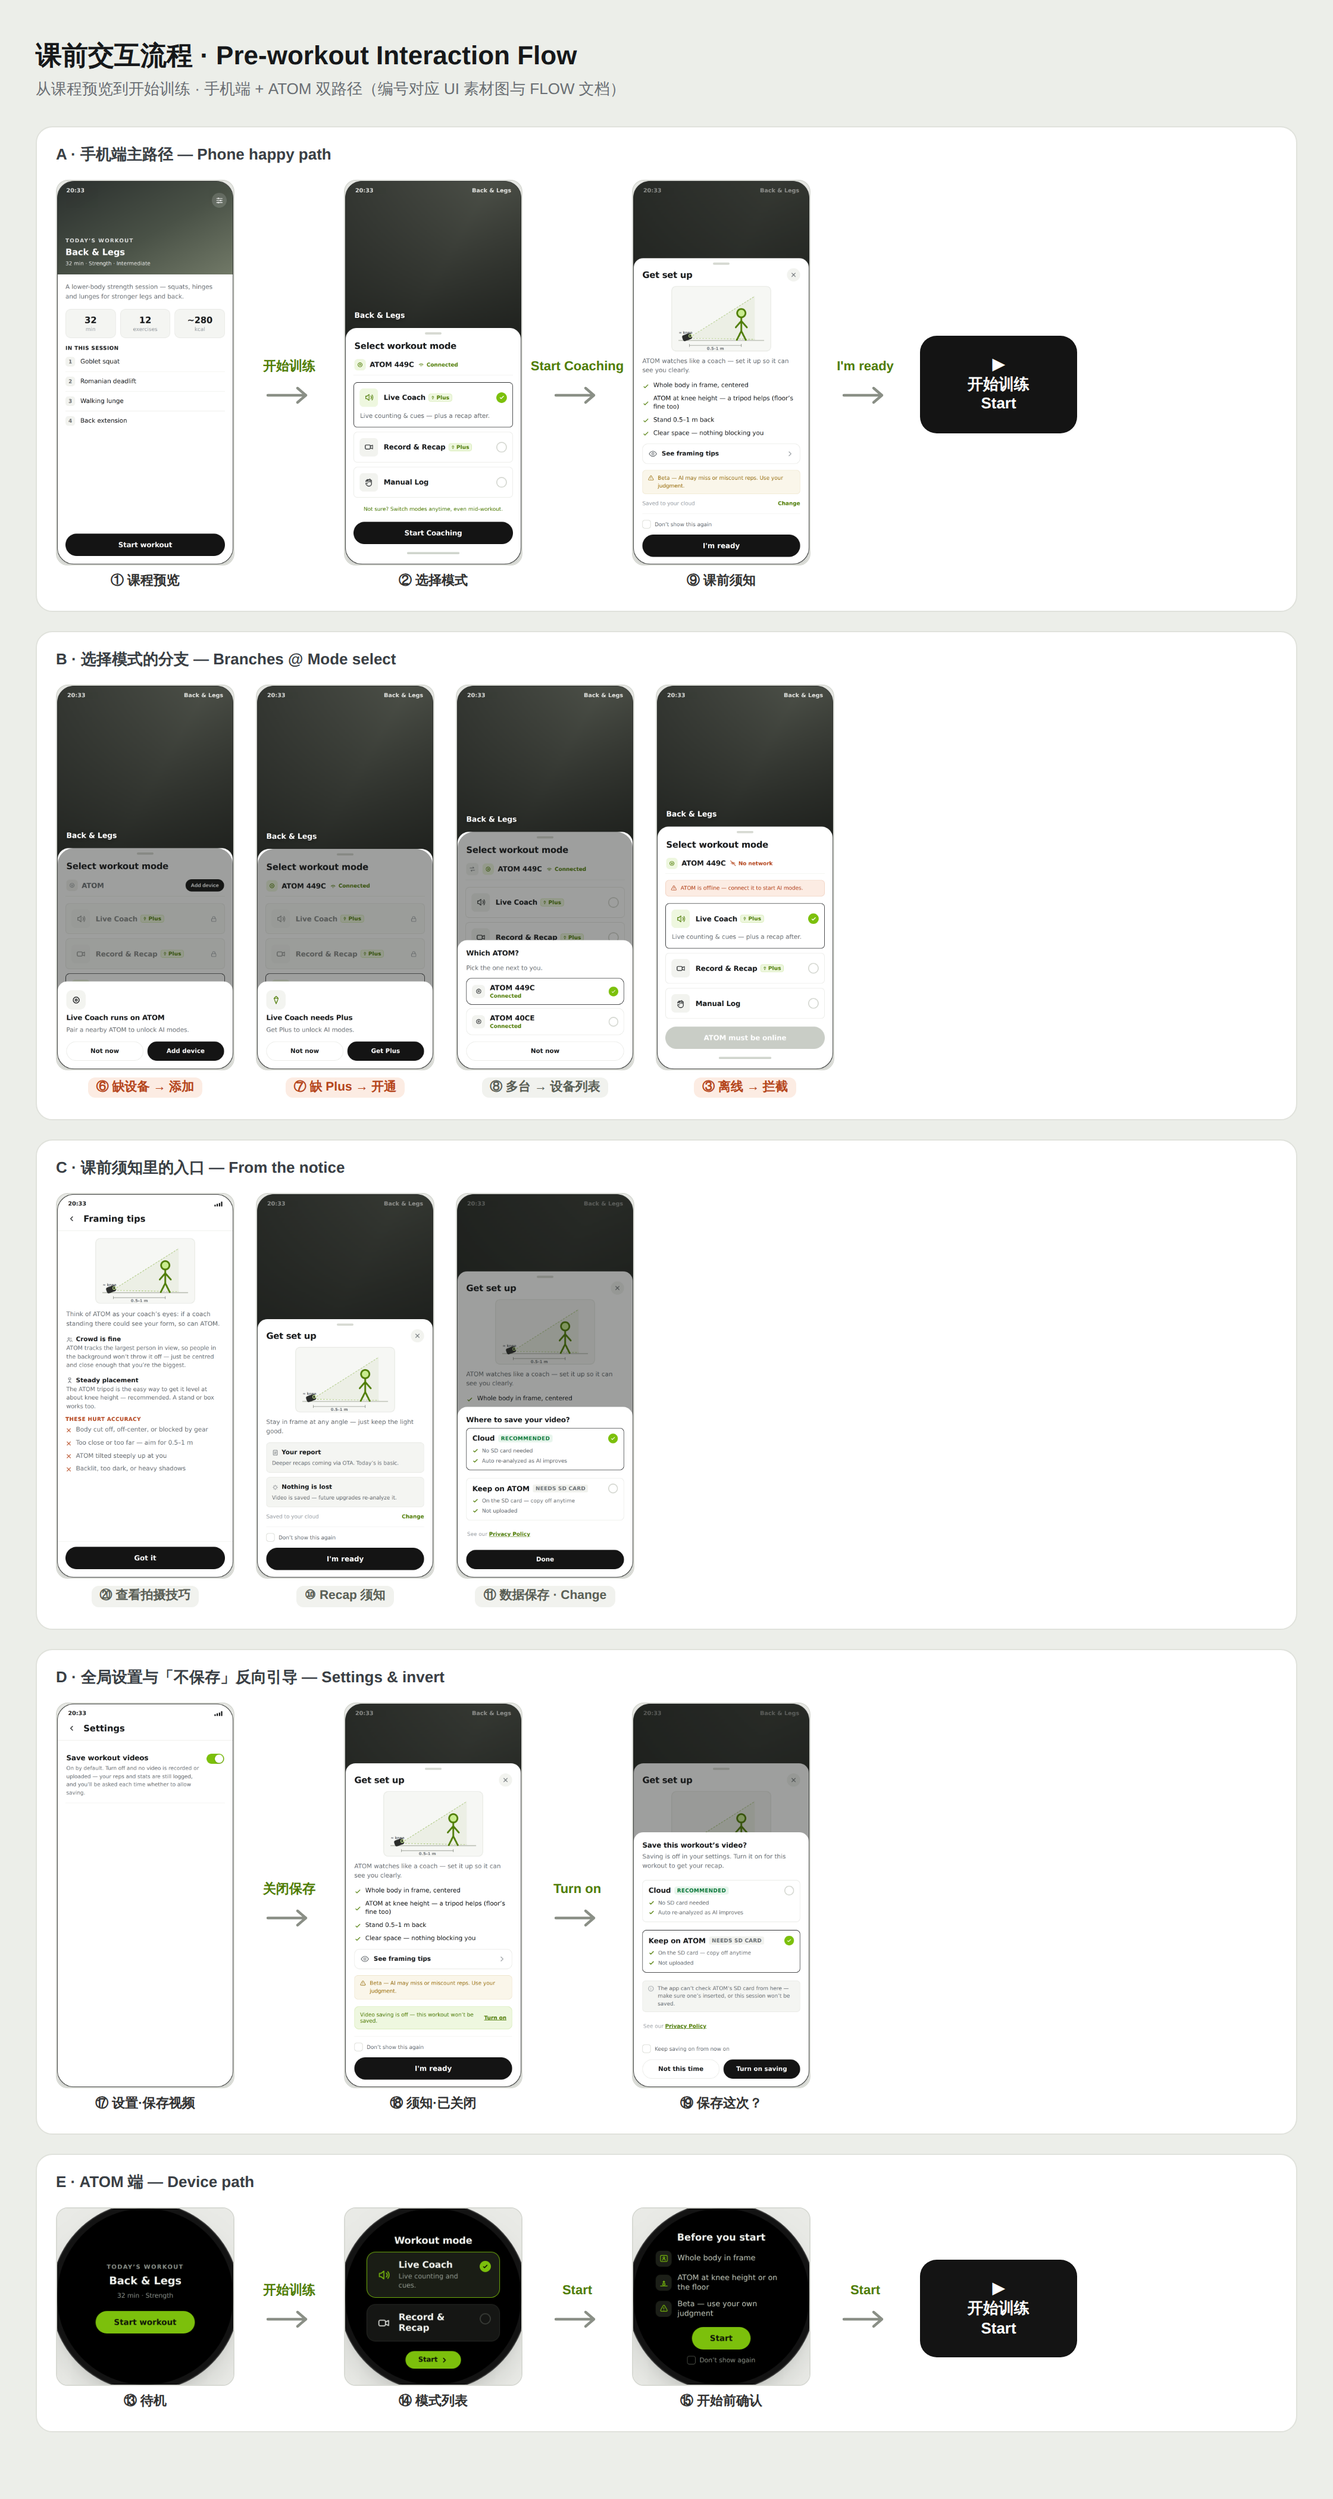
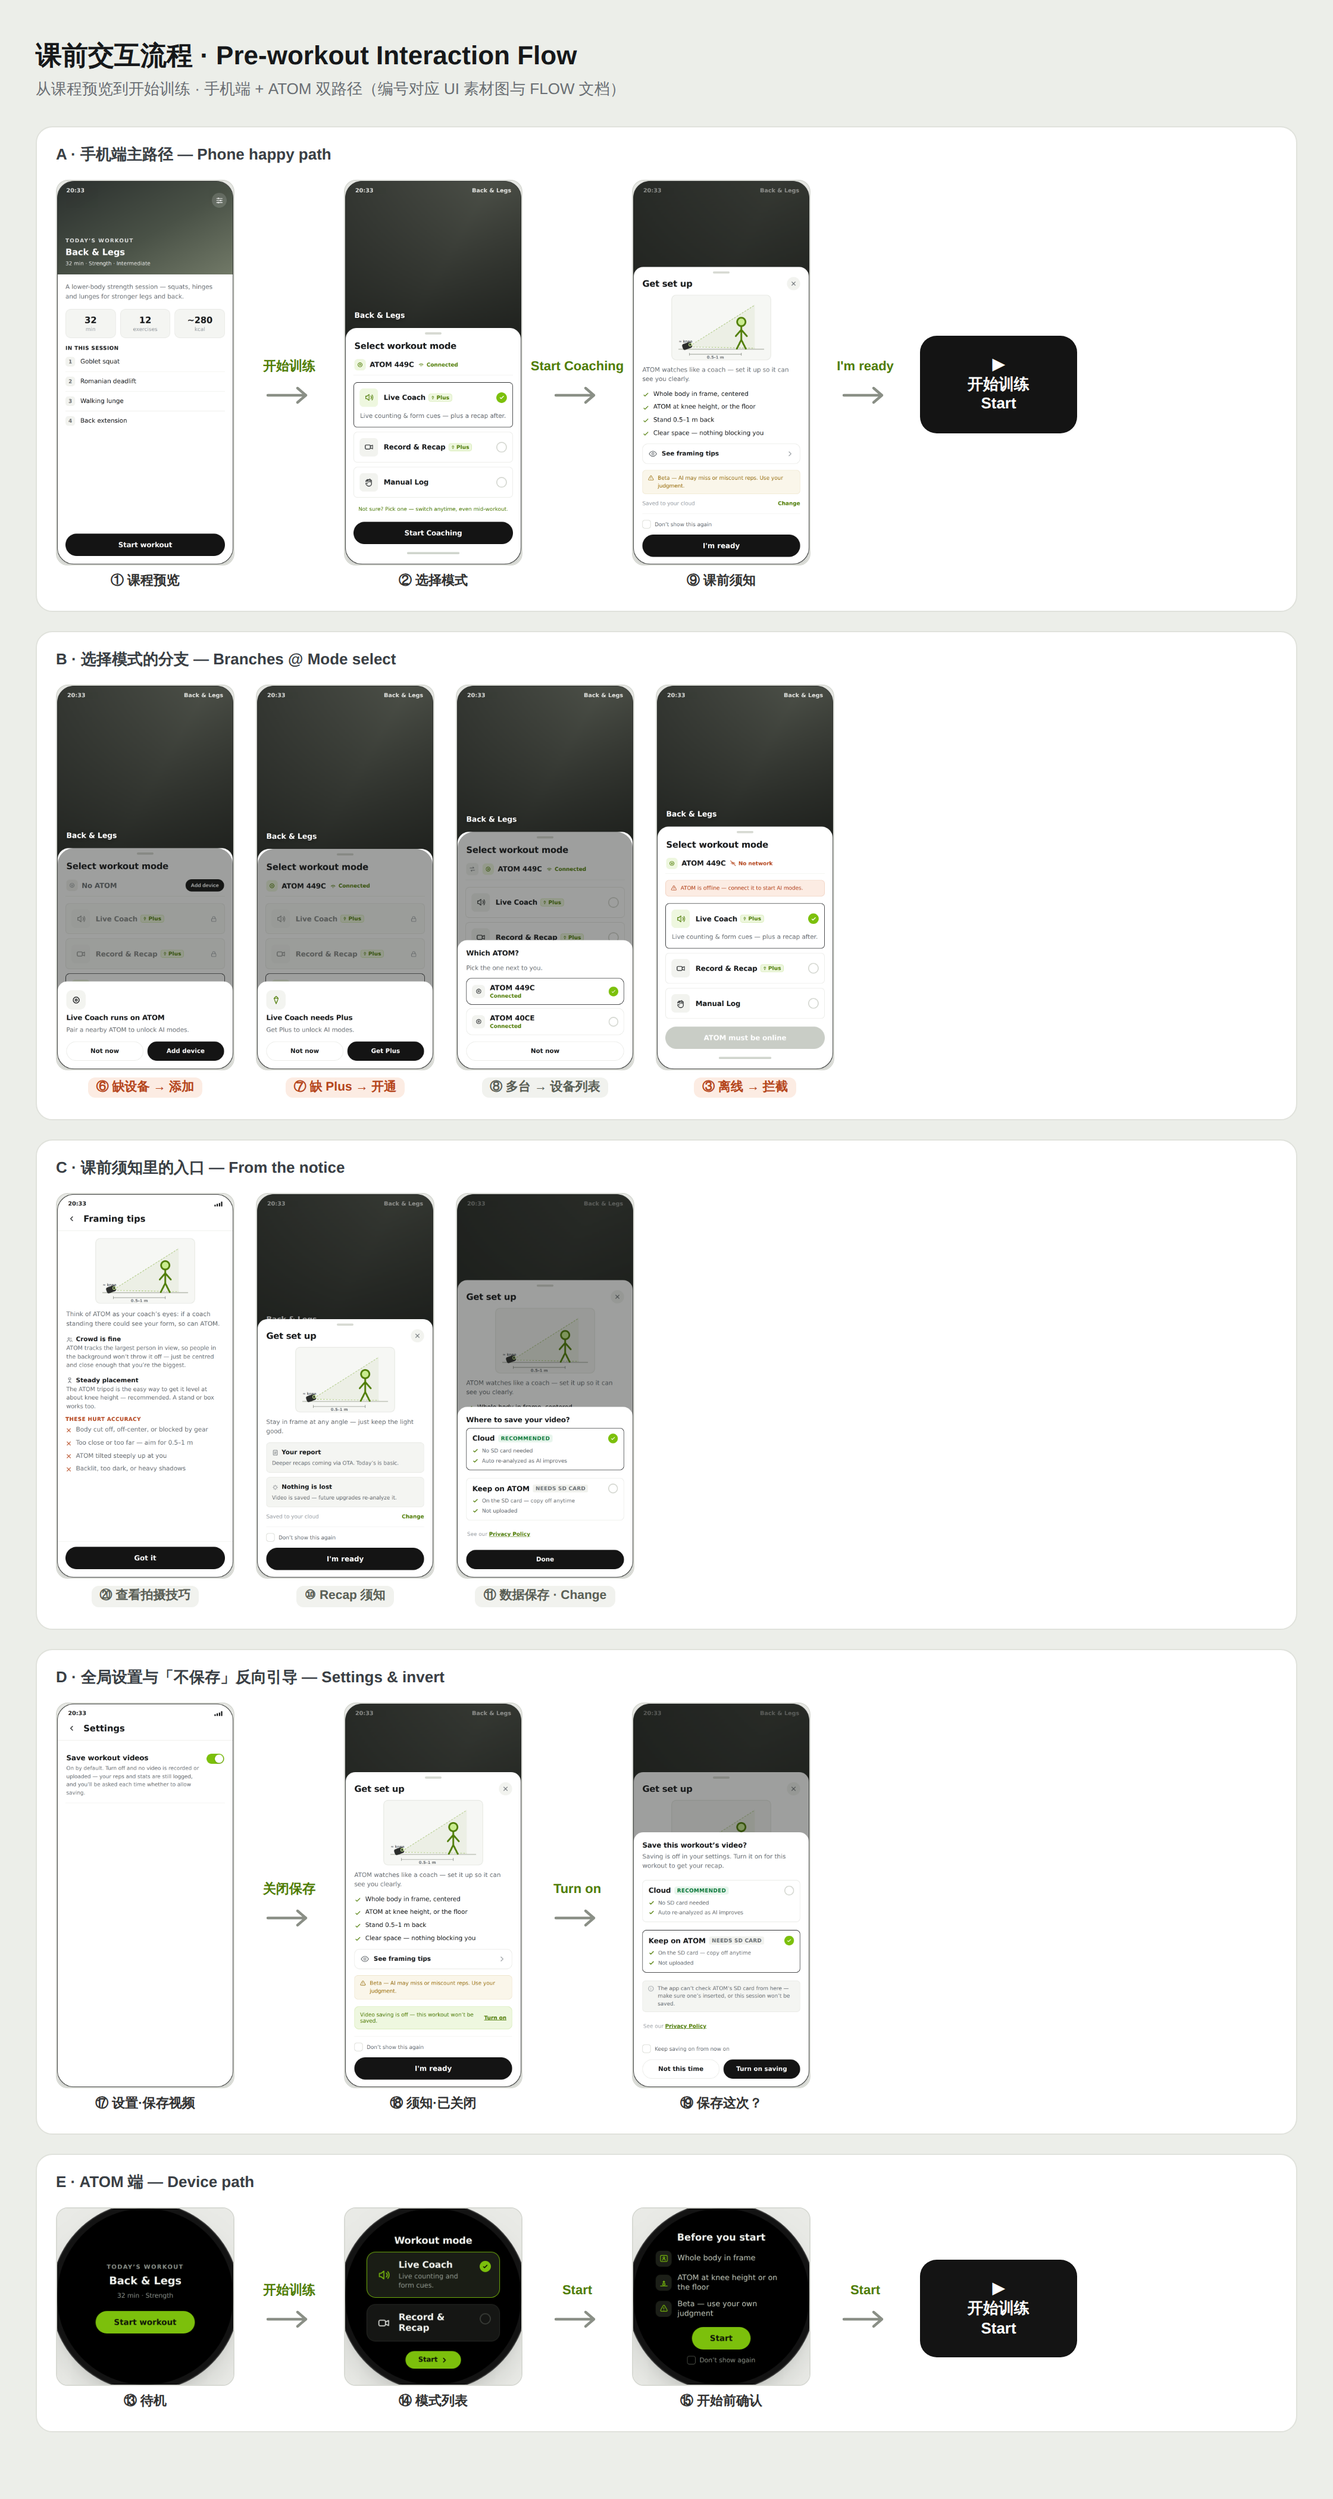
copy polish (3 tweaks) + regenerate static mockups
Applied the three approved clarity tweaks across prototype / Flutter / PRD:
1. No-device label 'ATOM' → 'No ATOM' / 未连接 ATOM (was mis-readable as a
   device named ATOM).
2. Quota-exhausted body split into two clean sentences.
3. flexNote EN/ZH aligned (both: pick one + switch anytime, even mid-workout).

Regenerated the full static set (手机端 en/zh, UI-spec board, flow-board) so
the PNGs match the current copy — folds in this session's accumulated changes
(form cues, shortened coachDo item 2, Upgrade to Pro, these three).

Claude-Session: https://claude.ai/code/session_014PR3u6XwyoxidkFV3YCNB7

diff --git a/Demo UX 交互原型.html b/Demo UX 交互原型.html
@@ -623,13 +623,13 @@
   };
   var T={
     en:{ bestLabel:'Best for', beta:'Beta — AI may miss or miscount reps. Use your judgment.',
-      connected:'Connected', nonet:'No network', add:'Add device',
+      connected:'Connected', nonet:'No network', add:'Add device', noDevice:'No ATOM',
       warnNonet:'ATOM is offline — connect it to start AI modes.',
       switchHint:' Or switch to an online device.',
       ctaBlocked:'ATOM must be online', cancel:'Not now',
       popDevT:'{n} runs on ATOM', popDevS:'Pair a nearby ATOM to unlock AI modes.', popDevBtn:'Add device',
       popPlusT:'{n} needs Plus', popPlusS:'Get Plus to unlock AI modes.', popPlusBtn:'Get Plus',
-      popQuotaT:'{n} — AI limit reached', popQuotaS:'You’ve used up this cycle’s Plus AI sessions — upgrade to Pro for more. Manual Log still works.', popQuotaBtn:'Upgrade to Pro',
+      popQuotaT:'{n} — AI limit reached', popQuotaS:'This cycle’s Plus AI sessions are used up. Upgrade to Pro for more — Manual Log still works.', popQuotaBtn:'Upgrade to Pro',
       recapNeedH:'Saving required', recapNeed:'Record & Recap keeps the video to build your recap — turn on saving to start.',
       recapTurnOnCta:'Turn on saving to continue', dEnableCta:'Turn on saving', dSaveAlways:'Keep saving on from now on',
       dataSheetT:'Where to save your video?',
@@ -676,17 +676,17 @@
       pvDesc:'A lower-body strength session — squats, hinges and lunges for stronger legs and back.',
       pvStart:'Start workout', pvStatMin:'min', pvStatEx:'exercises', pvStatKcal:'kcal',
       pvInc:'In this session', pvEx1:'Goblet squat', pvEx2:'Romanian deadlift', pvEx3:'Walking lunge', pvEx4:'Back extension',
-      flexNote:'Not sure? Switch modes anytime, even mid-workout.',
+      flexNote:'Not sure? Pick one — switch anytime, even mid-workout.',
       rstart:'Start', atomCoachSub:'Live counting and form cues.', atomRecapSub:'Records quietly, reports after.',
       devcap:'Title is just “Workout mode”. Selected card shows its one-line explanation; the others show only their title. Manual Log stays on the phone.' },
     zh:{ bestLabel:'适合', beta:'Beta——AI 可能漏计或误计，请自行判断。',
-      connected:'已连接', nonet:'无网络', add:'添加设备',
+      connected:'已连接', nonet:'无网络', add:'添加设备', noDevice:'未连接 ATOM',
       warnNonet:'ATOM 未联网，连网后才能启动 AI 模式。',
       switchHint:' 也可切换到在线的设备。',
       ctaBlocked:'ATOM 需在线', cancel:'以后再说',
       popDevT:'{n} 需要 ATOM', popDevS:'连接身边的 ATOM，解锁 AI 模式。', popDevBtn:'添加设备',
       popPlusT:'{n} 需要 Plus 会员', popPlusS:'开通 Plus，解锁 AI 模式。', popPlusBtn:'开通 Plus',
-      popQuotaT:'{n}：AI 额度已用尽', popQuotaS:'本期 Plus 的 AI 次数已用完——升级 Pro 可获得更多。手动记录仍可使用。', popQuotaBtn:'升级 Pro',
+      popQuotaT:'{n}：AI 额度已用尽', popQuotaS:'本期 Plus 的 AI 次数已用完。升级 Pro 可获得更多——手动记录仍可用。', popQuotaBtn:'升级 Pro',
       recapNeedH:'需开启保存', recapNeed:'录制复盘要保存视频才能生成复盘——开启保存即可开始。',
       recapTurnOnCta:'开启保存以继续', dEnableCta:'开启保存', dSaveAlways:'以后一直开启保存（可在设置关闭）',
       dataSheetT:'视频保存在哪里？',
@@ -733,7 +733,7 @@
       pvDesc:'下肢力量训练——深蹲、髋铰链与弓步，练强腿部和背部。',
       pvStart:'开始训练', pvStatMin:'分钟', pvStatEx:'个动作', pvStatKcal:'千卡',
       pvInc:'本节包含', pvEx1:'高脚杯深蹲', pvEx2:'罗马尼亚硬拉', pvEx3:'行走弓步', pvEx4:'背部伸展',
-      flexNote:'不确定？课中随时能切换，先选一个。',
+      flexNote:'不确定？先选一个——课中随时能切换。',
       rstart:'开始', atomCoachSub:'实时计数、动作提示。', atomRecapSub:'安静录制，练后出报告。',
       devcap:'标题就是「上课模式」。选中的卡片显示一行说明，其余只显示标题。手动记录留在手机端。' }
   };
@@ -1004,7 +1004,7 @@
     dev.classList.toggle('off', DEVCOUNT==='nodev');
     dev.classList.toggle('multi', DEVCOUNT==='two');
     devAdd.hidden = DEVCOUNT!=='nodev'; devAdd.textContent=t.add;
-    if(DEVCOUNT==='nodev'){ devName.textContent='ATOM'; devState.style.display='none'; }
+    if(DEVCOUNT==='nodev'){ devName.textContent=t.noDevice; devState.style.display='none'; }
     else { var a=active(); devName.textContent=a.name; devState.style.display='';
       devState.classList.toggle('warn', a.status!=='conn');
       devState.innerHTML=(a.status==='conn'?WIFI:NONETIC)+'<span>'+(a.status==='conn'?t.connected:t.nonet)+'</span>'; }

diff --git a/Code Flutter/lib/workout_mode/strings.dart b/Code Flutter/lib/workout_mode/strings.dart
@@ -15,14 +15,14 @@ class L {
   // ---- mode sheet chrome ----
   String get title => _t('Select workout mode', '选择上课模式');
   String get flexNote => _t(
-      'Not sure? Switch modes anytime, even mid-workout.',
-      '不确定？课中随时能切换，先选一个。');
+      'Not sure? Pick one — switch anytime, even mid-workout.',
+      '不确定？先选一个——课中随时能切换。');
   String get plusTag => 'Plus';
 
   // ---- device row ----
   String get connected => _t('Connected', '已连接');
   String get noNetwork => _t('No network', '无网络');
-  String get noDevice => _t('ATOM', 'ATOM');
+  String get noDevice => _t('No ATOM', '未连接 ATOM');
   String get addDevice => _t('Add device', '添加设备');
 
   // ---- blocking warning + CTA ----
@@ -42,8 +42,8 @@ class L {
           _t('Pair a nearby ATOM to unlock AI modes.', '连接身边的 ATOM，解锁 AI 模式。'),
         GateReason.needPlus => _t('Get Plus to unlock AI modes.', '开通 Plus，解锁 AI 模式。'),
         GateReason.overQuota => _t(
-            'You’ve used up this cycle’s Plus AI sessions — upgrade to Pro for more. Manual Log still works.',
-            '本期 Plus 的 AI 次数已用完——升级 Pro 可获得更多。手动记录仍可使用。'),
+            'This cycle’s Plus AI sessions are used up. Upgrade to Pro for more — Manual Log still works.',
+            '本期 Plus 的 AI 次数已用完。升级 Pro 可获得更多——手动记录仍可用。'),
       };
   String gateButton(GateReason r) => switch (r) {
         GateReason.needDevice => addDevice,

diff --git a/PRD 课前模式选择.md b/PRD 课前模式选择.md
@@ -82,7 +82,7 @@
 
 **结构决策**：保留**具名 3 选 1**（而非"AI + 能力开关"的排列组合式）。理由——课前是"营销/第一印象"时刻，具名卡片**决策与理解成本最低**，Record & Recap 也能独立曝光；开关式更灵活但偏"高阶用户配置"，理解成本更高。3 选 1 唯一的短板"像选了改不了"，用**一句心智提示**补齐：
 
-> 「**不确定？课中随时能切换，先选一个。**」
+> 「**不确定？先选一个——课中随时能切换。**」
 
 **位置与样式**：放在**三张卡片下方、主按钮上方**；为**友好的绿色小字**（不加色块/描边/图标），弱化存在感。**只在 AI 模式真正可用时才展示**（配对 + Plus + 在线）；无设备 / 无 Plus / 离线时**自动隐藏**——此时只有 Manual Log 可选，「随时切换三种模式」会自相矛盾。
 
@@ -106,7 +106,7 @@
 - 未满足门槛 → 该模式**置灰锁定**，点击弹**说明弹窗**，**页面不放常驻横幅**，保持干净。门槛有三档原因：
   - **无设备** → 引导添加设备；
   - **无 Plus** → 引导开通 Plus；
-  - **有 Plus 但 AI 额度用尽**（新增状态）→ 弹窗「{模式}：AI 额度已用尽 · 本期 Plus 的 AI 次数已用完，手动记录仍可使用」+ CTA **「升级 Pro」**（额度用尽引导升级到 Pro 会员；Pro 的具体价格/额度上限待商业确定）。
+  - **有 Plus 但 AI 额度用尽**（新增状态）→ 弹窗「{模式}：AI 额度已用尽 · 本期 Plus 的 AI 次数已用完，升级 Pro 获得更多；手动记录仍可用」+ CTA **「升级 Pro」**（额度用尽引导升级到 Pro 会员；Pro 的具体价格/额度上限待商业确定）。
 - Manual Log 永远可用（无门槛、无额度）。
 
 ### 4.3 设备与网络状态（对应 G2）
@@ -245,7 +245,7 @@ flowchart TD
 | 位置 | EN | 中文 |
 |---|---|---|
 | 标题 | Select workout mode | 选择上课模式 |
-| 切换心智提示 | Not sure? Switch modes anytime, even mid-workout. | 不确定？课中随时能切换，先选一个。 |
+| 切换心智提示 | Not sure? Pick one — switch anytime, even mid-workout. | 不确定？先选一个——课中随时能切换。 |
 | Live Coach 说明 | Live counting & form cues — plus a recap after. | 实时计数与动作提示，练后同样有复盘。 |
 | Record & Recap 说明 | Records quietly, recap after — no live form cues. | 安静录制、无实时动作提示，练后出复盘。 |
 | Manual Log 说明 | Log sets & reps yourself. No camera. | 自己记录，不开摄像头。 |
@@ -299,8 +299,8 @@ flowchart TD
 | 键 | EN | 中文 |
 |---|---|---|
 | selectMode | Select workout mode | 选择上课模式 |
-| connected / nonet / add | Connected / No network / Add device | 已连接 / 无网络 / 添加设备 |
-| flexNote（绿色小字）| Not sure? Switch modes anytime, even mid-workout. | 不确定？课中随时能切换，先选一个。 |
+| connected / nonet / add / noDevice | Connected / No network / Add device / No ATOM | 已连接 / 无网络 / 添加设备 / 未连接 ATOM |
+| flexNote（绿色小字）| Not sure? Pick one — switch anytime, even mid-workout. | 不确定？先选一个——课中随时能切换。 |
 | Live Coach（名/说明/CTA）| Live Coach / Live counting & form cues — plus a recap after. / Start Coaching | 实时教练 / 实时计数与动作提示，练后同样有复盘。 / 开始指导 |
 | Record & Recap | Record & Recap / Records quietly, recap after — no live form cues. / Start Recording | 录制复盘 / 安静录制、无实时动作提示，练后出复盘。 / 开始录制 |
 | Manual Log | Manual Log / Log sets & reps yourself. No camera. / Start Logging | 手动记录 / 自己记录，不开摄像头。 / 开始记录 |
@@ -343,7 +343,7 @@ flowchart TD
 | saveOnT / saveOnBody / saveNotNow | Save this workout's video? / Saving is off in your settings. Turn it on for this workout to get your recap. / Not this time | 保存这次的视频？ / 你已在设置中关闭保存。为本次开启即可获得复盘。 / 这次不用 |
 | dSaveAlways / dEnableCta（开启范围） | Keep saving on from now on / Turn on saving | 以后一直开启保存（可在设置关闭）/ 开启保存 |
 | privacyNote / privacyLink | See our / Privacy Policy | 详见 / 隐私协议 |
-| 额度用尽 gate（升级 Pro）| {mode} — AI limit reached / You've used up this cycle's Plus AI sessions — upgrade to Pro for more. Manual Log still works. / Upgrade to Pro | {模式}：AI 额度已用尽 / 本期 Plus 的 AI 次数已用完——升级 Pro 可获得更多。手动记录仍可使用。 / 升级 Pro |
+| 额度用尽 gate（升级 Pro）| {mode} — AI limit reached / This cycle's Plus AI sessions are used up. Upgrade to Pro for more — Manual Log still works. / Upgrade to Pro | {模式}：AI 额度已用尽 / 本期 Plus 的 AI 次数已用完。升级 Pro 可获得更多——手动记录仍可用。 / 升级 Pro |
 | Recap 需保存（硬要求）| Saving required / Record & Recap keeps the video to build your recap — turn on saving to start. / Turn on saving to continue | 需开启保存 / 录制复盘要保存视频才能生成复盘——开启保存即可开始。 / 开启保存以继续 |
 
 ### ⑳ 拍摄技巧 Framing tips
@@ -400,7 +400,7 @@ flowchart TD
 ### 7.2 空 / 0 状态 · Empty & zero states
 | 场景 | 现状 | 处理 / 待办 |
 |---|---|---|
-| **无设备**（0 台） | 设备行显示「ATOM」+ 添加设备；两个 AI 模式灰化锁定；只有 Manual Log 可用 | ✓ **「课中随时能切」小字自动隐藏**（只有 Manual 时切换提示无意义）|
+| **无设备**（0 台） | 设备行显示「未连接 ATOM」+ 添加设备；两个 AI 模式灰化锁定；只有 Manual Log 可用 | ✓ **「课中随时能切」小字自动隐藏**（只有 Manual 时切换提示无意义）|
 | **无 Plus** | AI 模式灰化，点击弹开通；只有 Manual | ✓ 同上，切换小字隐藏 |
 | **无 SD 卡 + 选「仅存 ATOM」** | 须知数据行 + 弹窗告警「本次不会保留」 | ✓；**边界**：全局关保存→引导弹窗里选「仅存 ATOM」且无 SD，当前是选完即收起、告警落在须知那行（用户仍被告知）|
 | **全局关闭保存视频** | 须知数据行变绿色引导条「已关闭·开启」 | ✓ 反向引导 |
